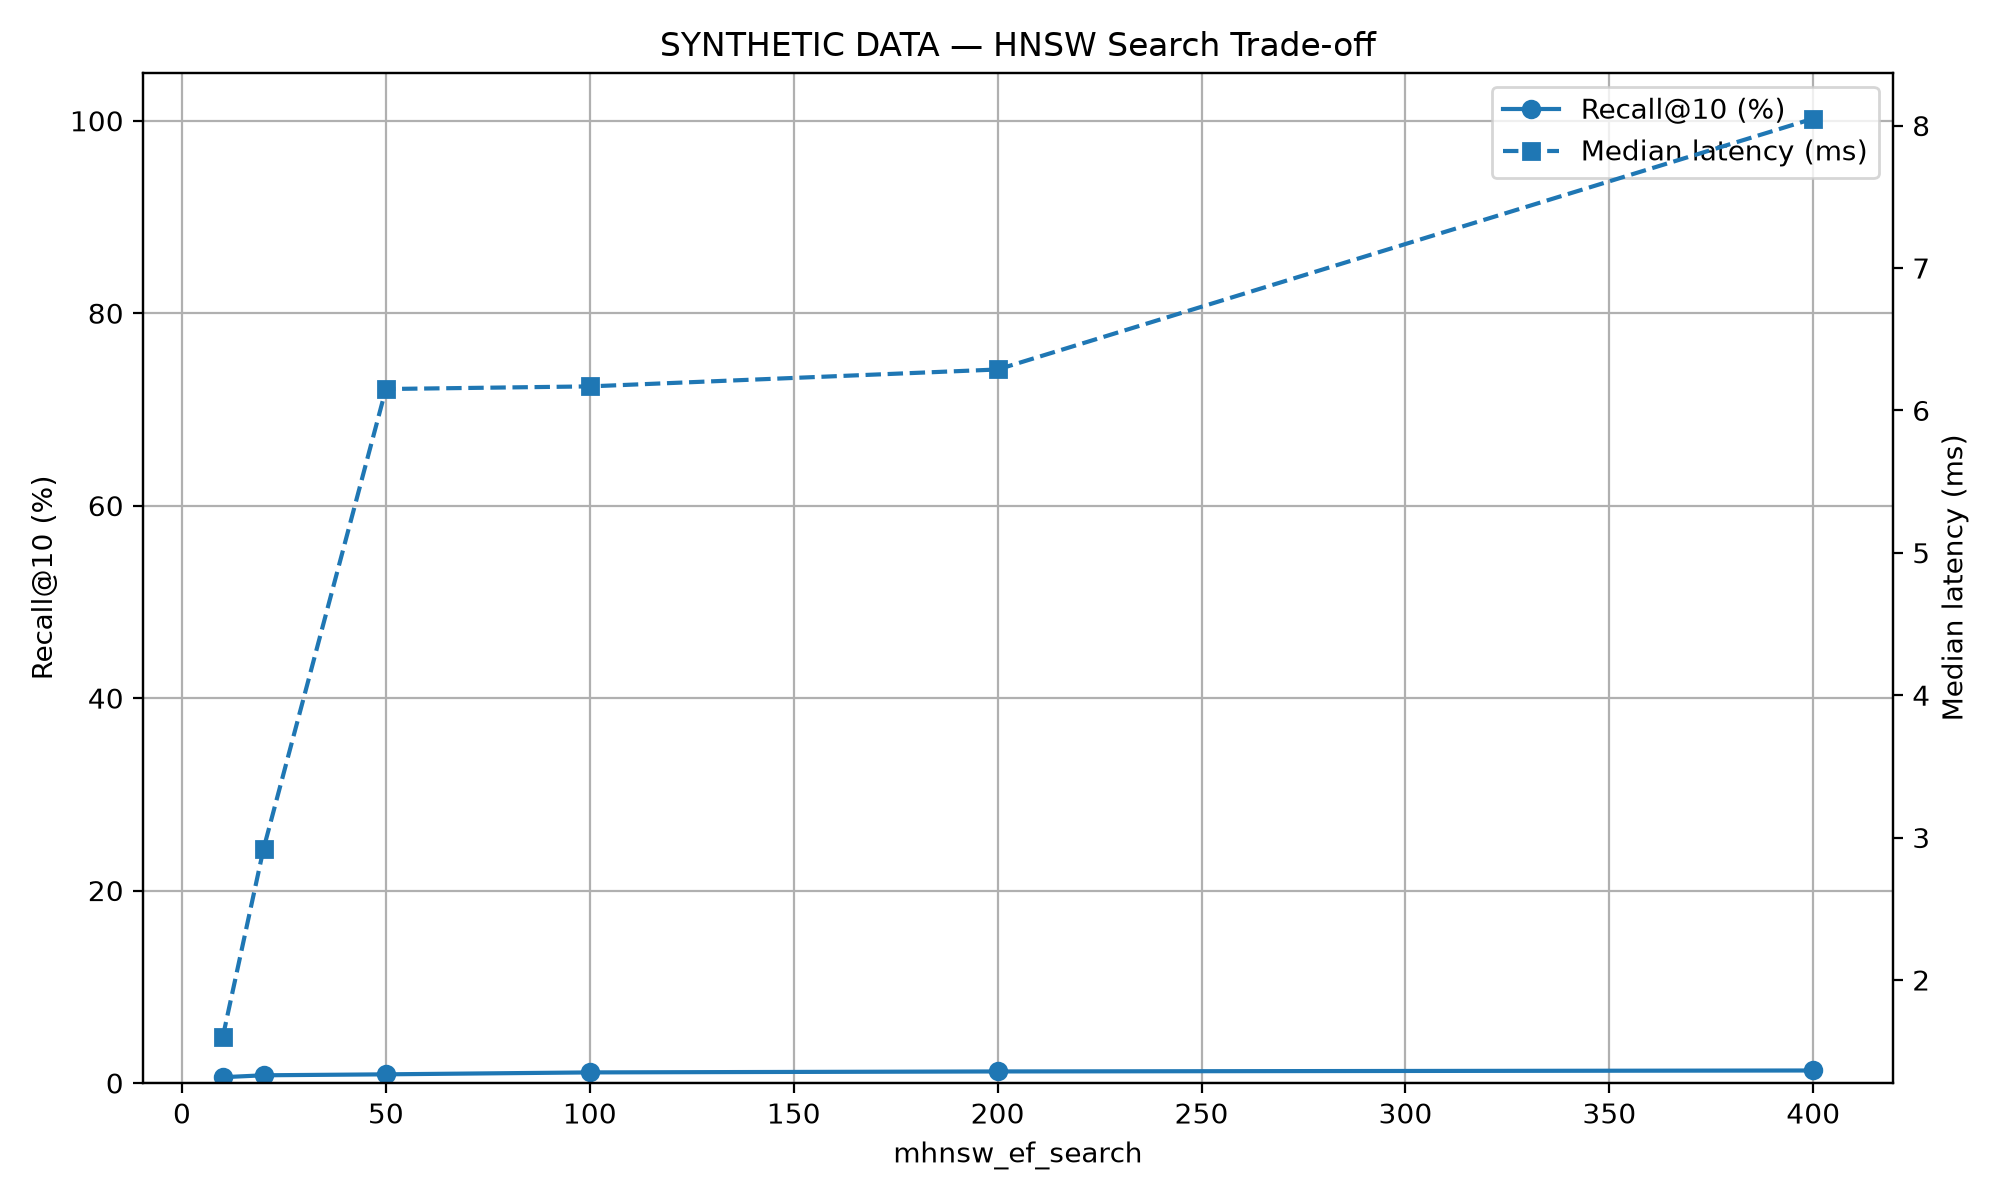
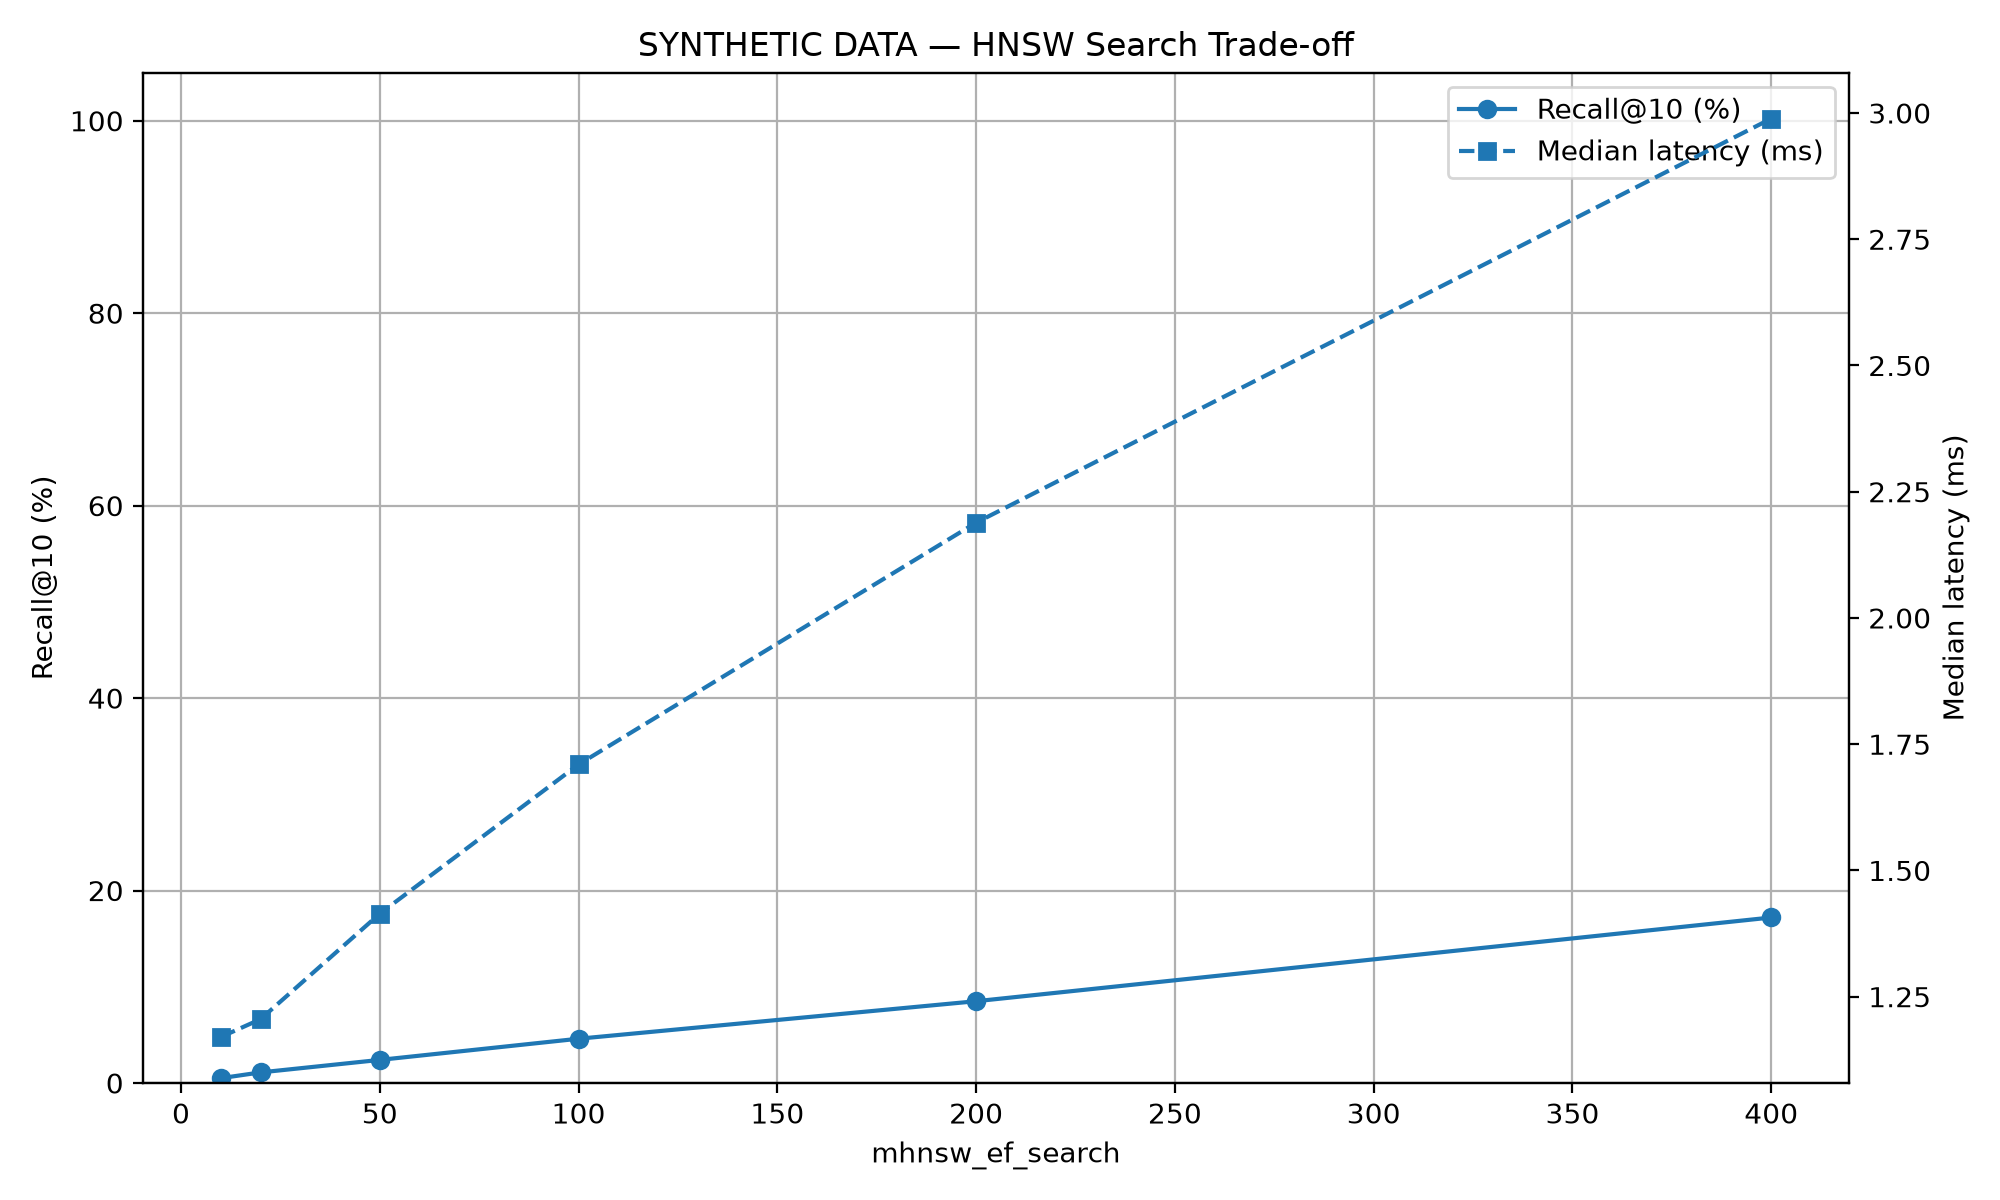
Add HNSW cache comparison and experiment tests

diff --git a/tests/test_ef_search_experiment.py b/tests/test_ef_search_experiment.py
@@ -1,0 +1,159 @@
+"""
+Read-only validation checks for the MariaDB mHNSW ef_search cache experiment.
+
+Run from the repository root:
+    python -m pytest tests/test_ef_search_experiment.py -v
+
+These tests do not insert, update, delete, drop, or rebuild database objects.
+They expect the synthetic experiment table and 1 GiB global cache setting
+to already exist.
+"""
+
+import os
+import sys
+from pathlib import Path
+
+import pytest
+
+# Make python/db.py importable when pytest is launched from the repository root.
+PROJECT_ROOT = Path(__file__).resolve().parents[1]
+PYTHON_DIR = PROJECT_ROOT / "python"
+if str(PYTHON_DIR) not in sys.path:
+    sys.path.insert(0, str(PYTHON_DIR))
+
+from db import get_connection  # noqa: E402
+
+
+EXPECTED_SYNTHETIC_ROWS = 100_000
+EXPECTED_CHUNK_ROWS = 3_753
+EXPECTED_CACHE_BYTES = 1_073_741_824
+EXPECTED_VECTOR_INDEX = "idx_synth_embedding"
+
+
+@pytest.fixture(scope="module")
+def connection():
+    conn = get_connection(autocommit=True)
+    try:
+        yield conn
+    finally:
+        conn.close()
+
+
+def fetch_one(connection, sql, params=None):
+    with connection.cursor() as cursor:
+        cursor.execute(sql, params)
+        return cursor.fetchone()
+
+
+def test_database_version_is_mariadb_118(connection):
+    row = fetch_one(connection, "SELECT VERSION()")
+    version = row[0]
+    assert "11.8" in version, f"Expected MariaDB 11.8.x, got {version}"
+
+
+def test_synthetic_dataset_has_expected_row_count(connection):
+    row = fetch_one(connection, "SELECT COUNT(*) FROM synth_vectors")
+    assert row[0] == EXPECTED_SYNTHETIC_ROWS
+
+
+def test_project_chunks_are_unchanged(connection):
+    row = fetch_one(connection, "SELECT COUNT(*) FROM chunks")
+    assert row[0] == EXPECTED_CHUNK_ROWS
+
+
+def test_synthetic_vector_index_exists_and_is_enabled(connection):
+    with connection.cursor() as cursor:
+        cursor.execute("SHOW INDEX FROM synth_vectors")
+        indexes = cursor.fetchall()
+
+    matching = [
+        row for row in indexes
+        if row[2] == EXPECTED_VECTOR_INDEX
+    ]
+    assert matching, f"Missing vector index {EXPECTED_VECTOR_INDEX}"
+
+    # SHOW INDEX columns: Table, Non_unique, Key_name, ..., Index_type, ..., Ignored
+    assert matching[0][10] == "VECTOR", (
+        f"Expected VECTOR index, got {matching[0][10]}"
+    )
+    assert matching[0][-1] == "NO", "Vector index is marked as ignored"
+
+
+def test_global_hnsw_cache_is_one_gibibyte(connection):
+    row = fetch_one(
+        connection,
+        "SELECT @@GLOBAL.mhnsw_max_cache_size"
+    )
+    assert int(row[0]) == EXPECTED_CACHE_BYTES
+
+
+def test_exact_query_plan_avoids_vector_index(connection):
+    sql = """
+        EXPLAIN
+        SELECT id
+        FROM synth_vectors IGNORE INDEX (idx_synth_embedding)
+        ORDER BY VEC_DISTANCE_COSINE(
+            embedding,
+            VEC_FromText(%s)
+        )
+        LIMIT 10
+    """
+    # A valid 384-dimensional vector literal is sufficient for EXPLAIN.
+    vector_text = "[" + ",".join(["0.0"] * 384) + "]"
+    with connection.cursor() as cursor:
+        cursor.execute(sql, (vector_text,))
+        plan = cursor.fetchall()
+
+    access_type = str(plan[0][3]).upper()
+    assert access_type == "ALL", (
+        f"Expected full table scan for exact query, got access type {access_type}"
+    )
+
+
+def test_indexed_query_plan_uses_vector_index(connection):
+    sql = """
+        EXPLAIN
+        SELECT id
+        FROM synth_vectors
+        ORDER BY VEC_DISTANCE_COSINE(
+            embedding,
+            VEC_FromText(%s)
+        )
+        LIMIT 10
+    """
+    vector_text = "[" + ",".join(["0.0"] * 384) + "]"
+    with connection.cursor() as cursor:
+        cursor.execute(sql, (vector_text,))
+        plan = cursor.fetchall()
+
+    key_name = plan[0][5]
+    assert key_name == EXPECTED_VECTOR_INDEX, (
+        f"Expected {EXPECTED_VECTOR_INDEX}, got {key_name}"
+    )
+
+
+def test_indexed_search_returns_ten_rows(connection):
+    row = fetch_one(
+        connection,
+        "SELECT VEC_ToText(embedding) FROM synth_vectors WHERE id = 1"
+    )
+    assert row and row[0], "Could not read a sample synthetic vector"
+
+    with connection.cursor() as cursor:
+        cursor.execute("SET SESSION mhnsw_ef_search = 400")
+        cursor.execute(
+            """
+            SELECT id
+            FROM synth_vectors
+            ORDER BY VEC_DISTANCE_COSINE(
+                embedding,
+                VEC_FromText(%s)
+            )
+            LIMIT 10
+            """,
+            (row[0],),
+        )
+        results = cursor.fetchall()
+
+    assert len(results) == 10
+    assert len({item[0] for item in results}) == 10
